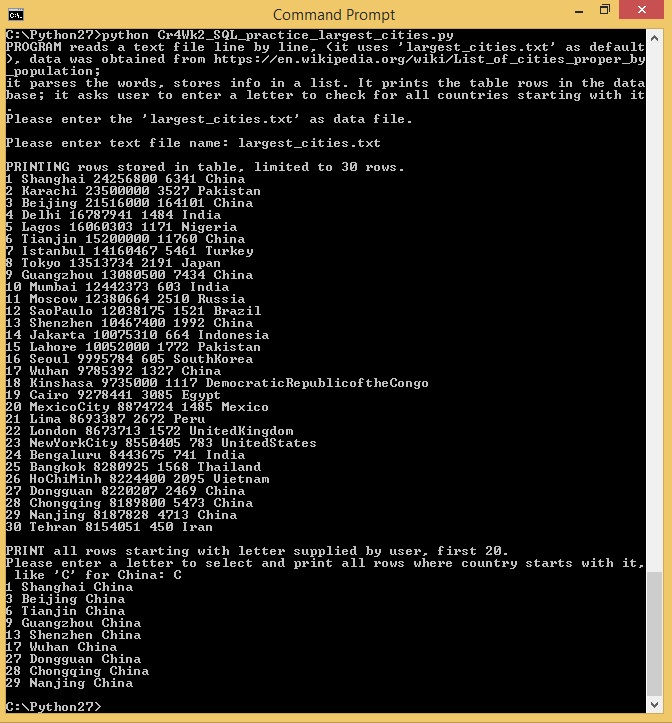
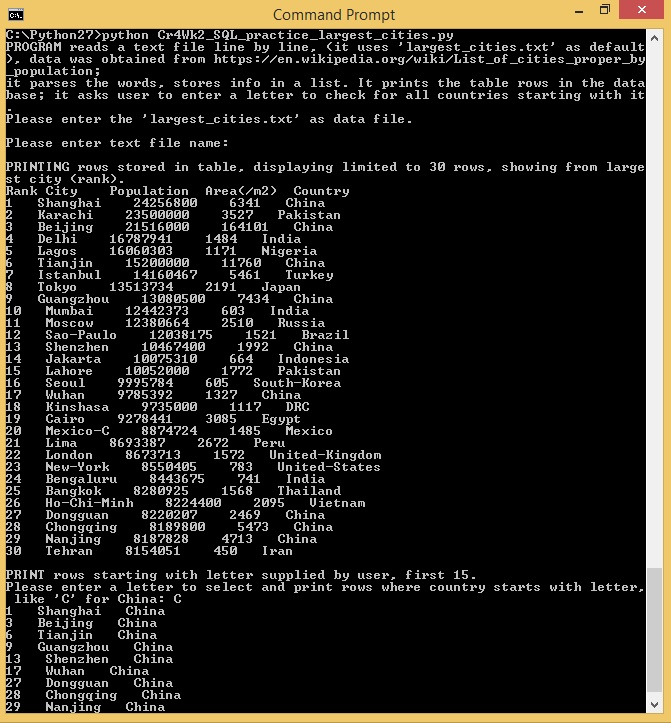
Add files via upload

diff --git a/Cr4Wk2_SQL_practice_largest_cities.py b/Cr4Wk2_SQL_practice_largest_cities.py
@@ -50,25 +50,24 @@ for line in fh:
 
 #OUTPUT:
 print " "
-print "PRINTING rows stored in table, limited to 30 rows. "
+print "PRINTING rows stored in table, displaying limited to 30 rows, showing from largest city (rank). "
+print "Rank City    Population  Area(/m2)  Country"
 sqlstr = 'SELECT * FROM LargestCities order by rank ASC LIMIT 30'   # if want to limit rows printed: LIMIT 100
 
 for row in cur.execute(sqlstr):
-     print row[0], row[1], row[2], row[3], row[4]
-     if row == 20: break
+     print row[0], " ", row[1], "  ", row[2], "  ",  row[3], " ",  row[4]
 
 print " "
-print "PRINT all rows starting with letter supplied by user, first 20. "
+print "PRINT rows starting with letter supplied by user, first 15. "
 string_build  = None
 string_build = ""
-x = raw_input("Please enter a letter to select and print all rows where country starts with it, like 'C' for China: ")
+x = raw_input("Please enter a letter to select and print rows where country starts with letter, like 'C' for China: ")
 like_str = "'" + x + '%' + "'"
 string_build1 = 'like ' + like_str + 'LIMIT 15'
 string_build  = "SELECT * FROM LargestCities WHERE country " + string_build1
 sqlstr = string_build
 
 for row in cur.execute(sqlstr):
-     print str(row[0]), row[1], row[4]
-     if row == 30: break
+     print str(row[0]), " ", row[1], " ", row[4]
 
 cur.close()
